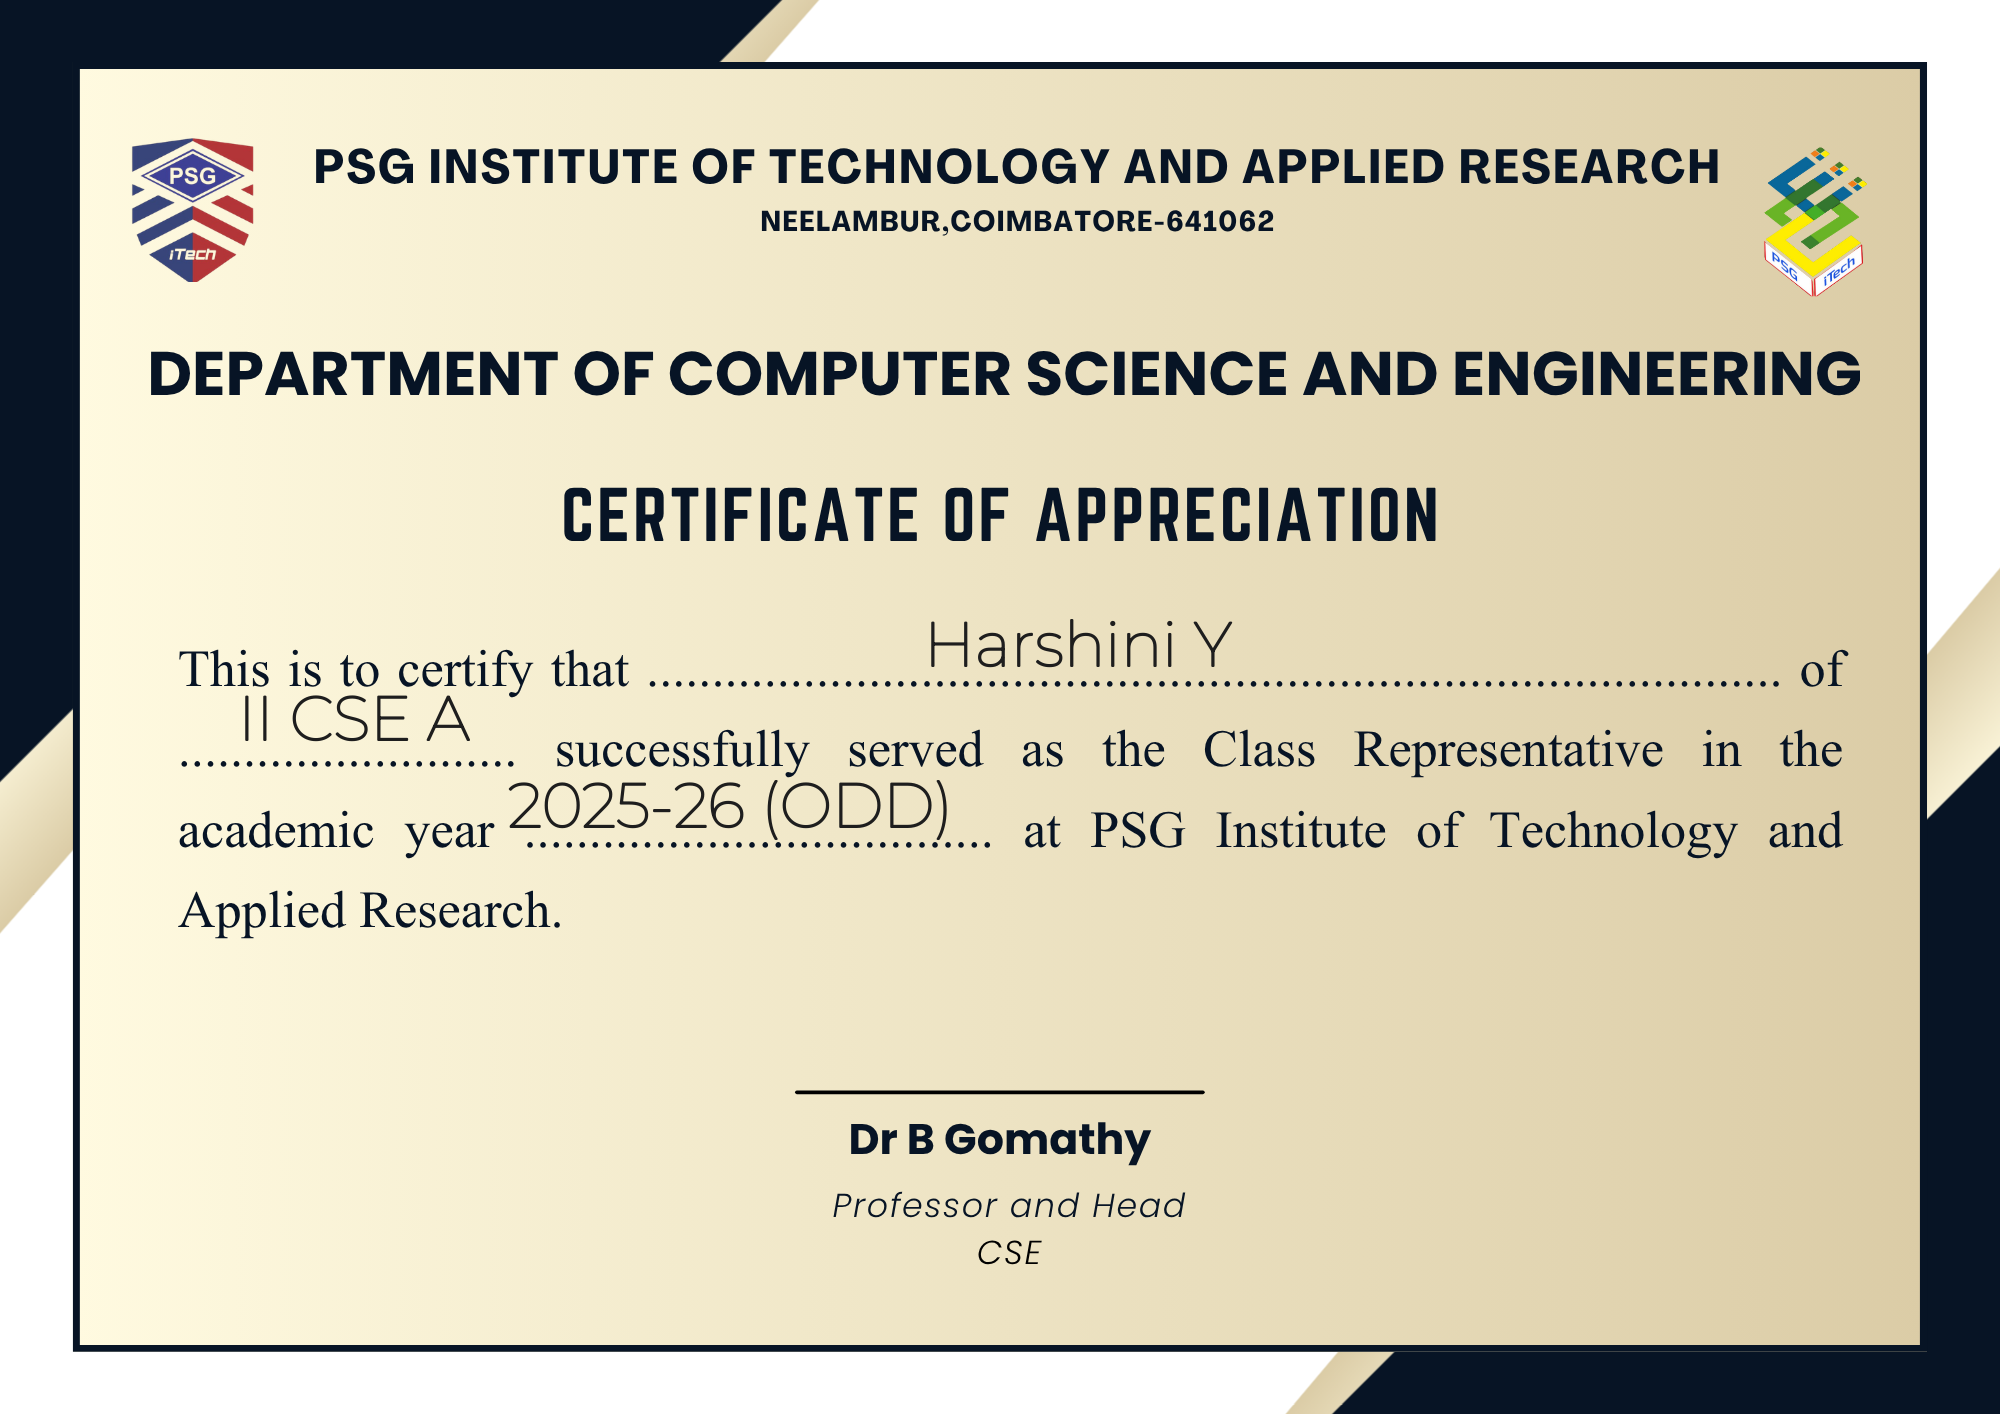
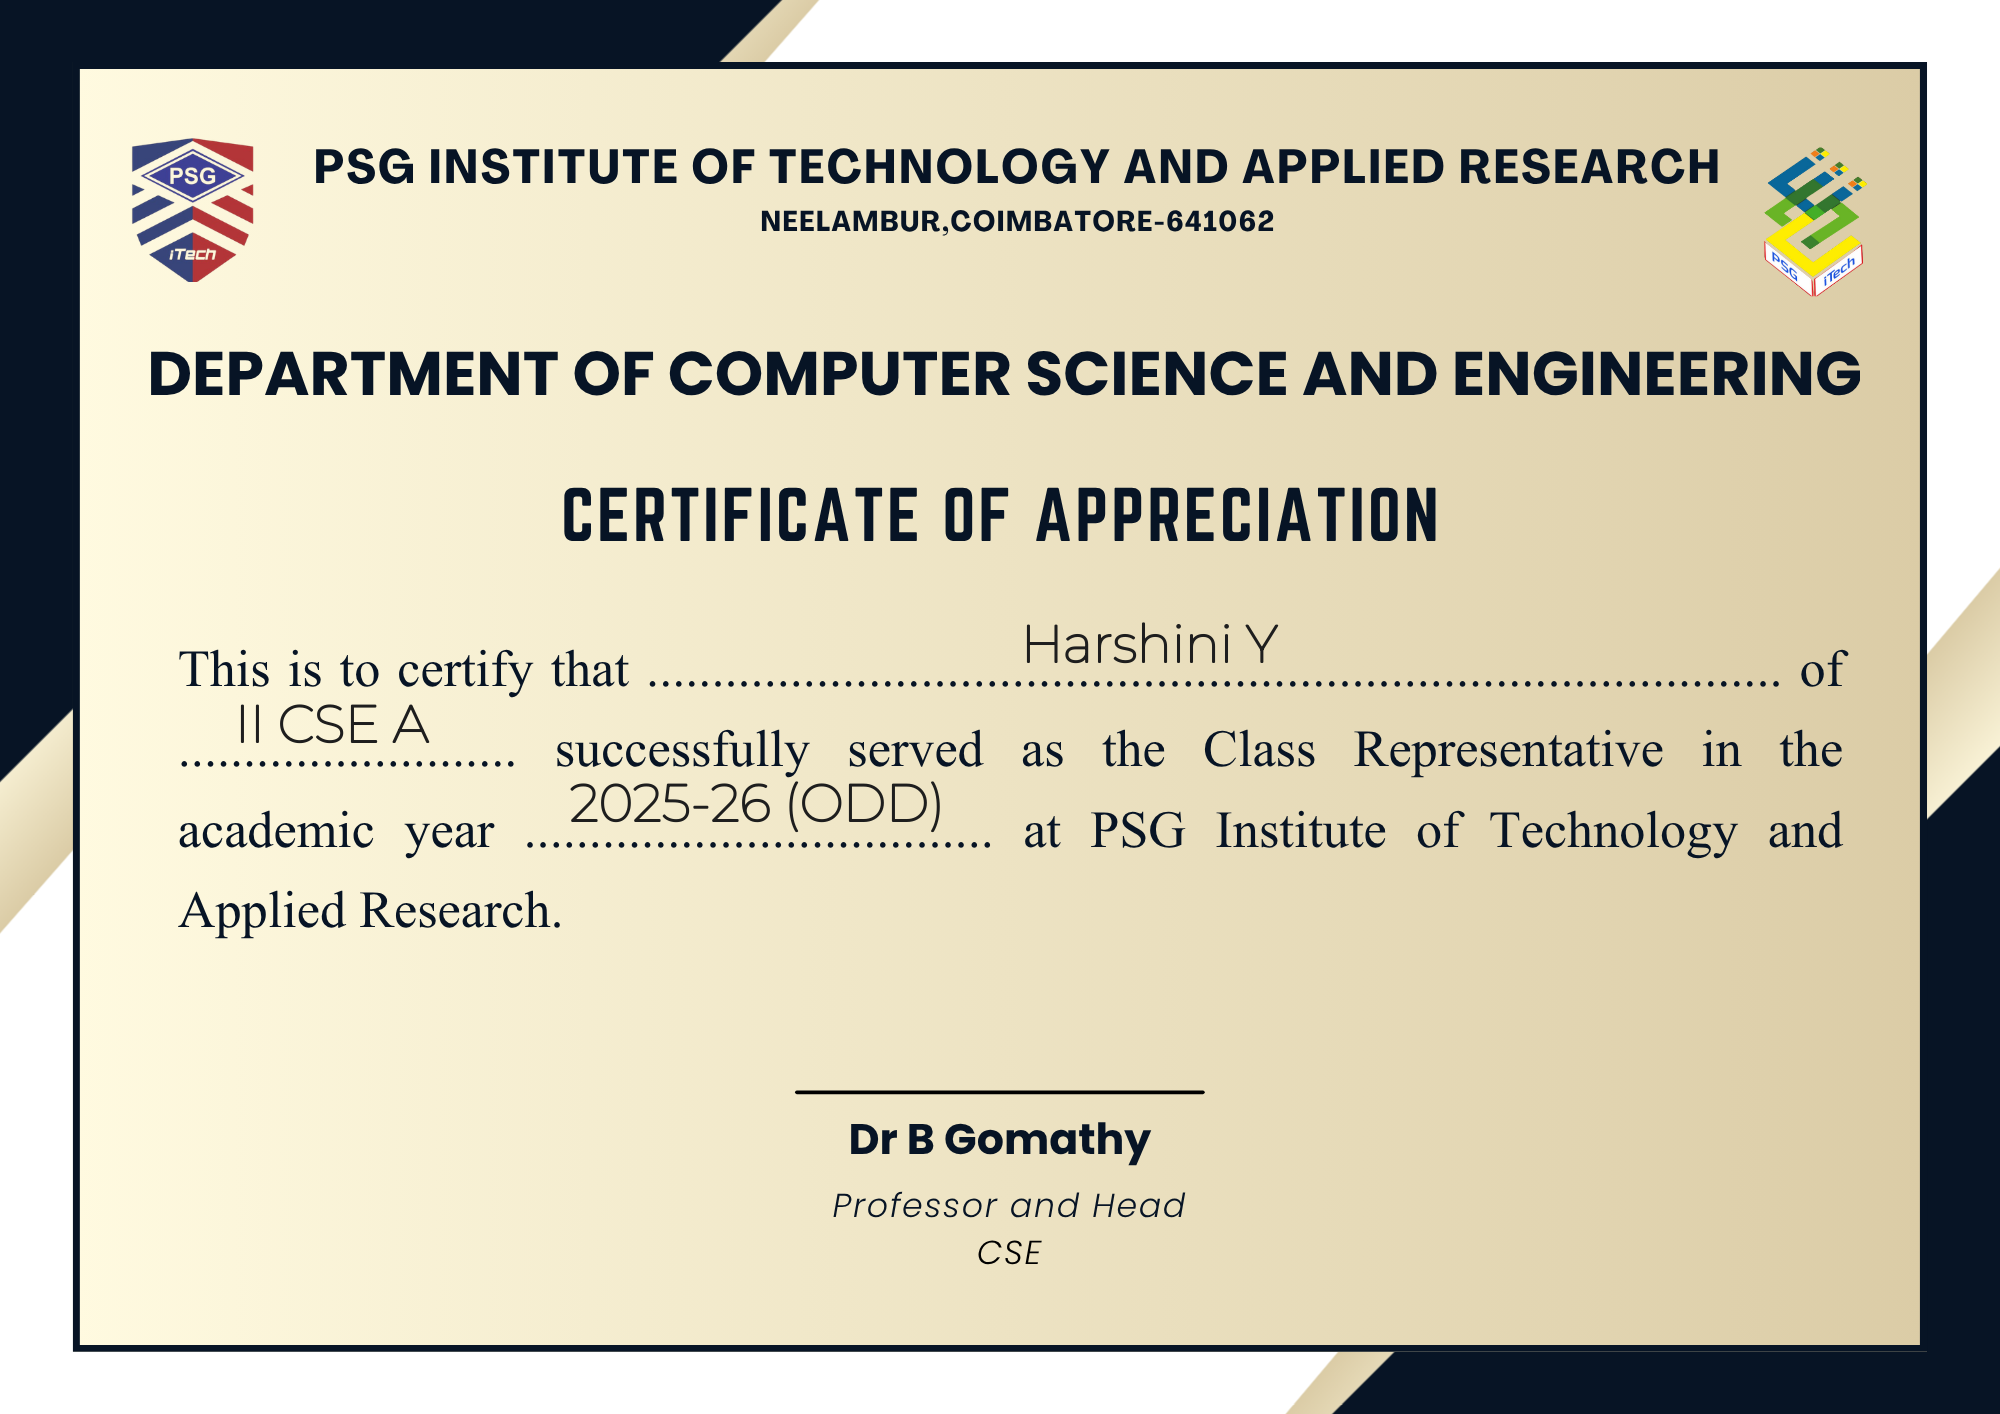
Guest Logic is Working

Changed region(s): [[0.248, 0.529, 0.496, 0.5912], [0.465, 0.4356, 0.62, 0.4668], [0.124, 0.4979, 0.248, 0.529]]

diff --git a/frontend/src/dashboards/dept/DeptCertificateIssue.jsx b/frontend/src/dashboards/dept/DeptCertificateIssue.jsx
@@ -93,7 +93,12 @@ export default function DeptCertificateIssue({ event }) {
   const allReady = hasParticipants && hasTemplate && hasMapping
 
   const firstGenerated = (certs || []).find((c) => !!c.png_url)
-  const previewImageUrl = previewData?.preview?.png_url ? `${BACKEND_URL}${previewData.preview.png_url}` : null
+  const previewImageUrl = useMemo(() => {
+    if (!previewData?.preview?.png_url) return null
+    const base = `${BACKEND_URL}${previewData.preview.png_url}`
+    const cacheKey = previewData?.preview?.id || previewData?.preview?.created_at || Date.now()
+    return `${base}${base.includes('?') ? '&' : '?'}t=${encodeURIComponent(String(cacheKey))}`
+  }, [previewData])
   const templateUrl = toImageUrl(eventTemplate?.template?.template_url)
   const templateAspectRatio = 2480 / 3508
 
@@ -237,7 +242,17 @@ export default function DeptCertificateIssue({ event }) {
 
         <div className="grid grid-cols-1 gap-4 lg:grid-cols-3">
           <div className="lg:col-span-2">
-            {firstGenerated?.png_url ? (
+            {previewImageUrl ? (
+              <div className="rounded-lg border border-gray-200 bg-white p-3">
+                <img
+                  key={previewData?.preview?.id || previewData?.preview?.created_at || 'dept-preview'}
+                  src={previewImageUrl}
+                  alt="Preview certificate"
+                  className="w-full rounded"
+                />
+                <p className="mt-2 text-xs text-gray-500">Showing backend-rendered preview using first Excel row and saved mapping.</p>
+              </div>
+            ) : firstGenerated?.png_url ? (
               <div className="rounded-lg border border-gray-200 bg-white p-3">
                 <img
                   src={`${BACKEND_URL}${firstGenerated.png_url}`}
@@ -245,15 +260,6 @@ export default function DeptCertificateIssue({ event }) {
                   className="w-full rounded"
                 />
                 <p className="mt-2 text-xs text-gray-500">Showing first generated certificate preview.</p>
-              </div>
-            ) : previewImageUrl ? (
-              <div className="rounded-lg border border-gray-200 bg-white p-3">
-                <img
-                  src={previewImageUrl}
-                  alt="Preview certificate"
-                  className="w-full rounded"
-                />
-                <p className="mt-2 text-xs text-gray-500">Showing backend-rendered preview using first Excel row and saved mapping.</p>
               </div>
             ) : templateUrl ? (
               <div className="rounded-lg border border-gray-200 bg-white p-3">

diff --git a/backend/app/domains/dept/routers.py b/backend/app/domains/dept/routers.py
@@ -221,7 +221,7 @@ def _pick_email_from_row(row: dict[str, str]) -> Optional[str]:
 
 
 def _load_font(size: int):
-    font_path = Path(__file__).parent.parent.parent / "static" / "fonts" / "PlayfairDisplay.ttf"
+    font_path = Path(__file__).parent.parent.parent / "static" / "fonts" / "Montserrat-Bold.ttf"
     try:
         if font_path.exists():
             return ImageFont.truetype(str(font_path), size)
@@ -271,10 +271,10 @@ def _render_dept_certificate(
     contrib_font = _load_font(max(1, int(ts)))
     cert_font = _load_font(max(1, int(zs)))
 
-    draw.text((w * nx, h * ny), name, fill=(28, 35, 70, 255), font=name_font, anchor="mm")
-    draw.text((w * cx, h * cy), f"Class: {class_name}", fill=(45, 45, 45, 255), font=class_font, anchor="mm")
-    draw.text((w * tx, h * ty), f"Contribution: {contribution}", fill=(45, 45, 45, 255), font=contrib_font, anchor="mm")
-    draw.text((w * zx, h * zy), cert_number, fill=(44, 61, 127, 255), font=cert_font, anchor="lm")
+    draw.text((w * nx, h * ny), name, fill=(28, 35, 70, 255), font=name_font, anchor="mm", stroke_width=1.5, stroke_fill=(28, 35, 70, 255))
+    draw.text((w * cx, h * cy), f"Class: {class_name}", fill=(45, 45, 45, 255), font=class_font, anchor="mm", stroke_width=1.5, stroke_fill=(45, 45, 45, 255))
+    draw.text((w * tx, h * ty), f"Contribution: {contribution}", fill=(45, 45, 45, 255), font=contrib_font, anchor="mm", stroke_width=1.5, stroke_fill=(45, 45, 45, 255))
+    draw.text((w * zx, h * zy), cert_number, fill=(44, 61, 127, 255), font=cert_font, anchor="lm", stroke_width=1.5, stroke_fill=(44, 61, 127, 255))
 
     def _paste_scaled(path: Optional[str], field_id: str, def_x: float, def_y: float, max_w_ratio: float, max_h_ratio: float):
         if not path:
@@ -342,7 +342,7 @@ def _render_dept_certificate_dynamic(
             value = _clean_text_value(row.get(field))
 
         if value:
-            draw.text((w * x / 100, h * y / 100), value, fill=(28, 35, 70, 255), font=font, anchor="mm")
+            draw.text((w * x / 100, h * y / 100), value, fill=(28, 35, 70, 255), font=font, anchor="mm", stroke_width=1.5, stroke_fill=(28, 35, 70, 255))
 
     cert_pos = field_positions.get("_cert_number")
     if cert_pos:
@@ -353,6 +353,8 @@ def _render_dept_certificate_dynamic(
             fill=(44, 61, 127, 255),
             font=cert_font,
             anchor="lm",
+            stroke_width=1.5,
+            stroke_fill=(44, 61, 127, 255),
         )
 
     def _paste_scaled(path: Optional[str], field_id: str, def_x: float, def_y: float, max_w_ratio: float, max_h_ratio: float):
@@ -840,7 +842,7 @@ async def generate_dept_event_certificate_preview(
     preview_row = evt.excel_preview_row or evt.excel_rows[0]
     dept_slug = _slugify(department)
     year = datetime.utcnow().year
-    cert_number = f"PREVIEW-DPT-{dept_slug[:4].upper()}-{datetime.utcnow().strftime('%Y%m%d%H%M%S')}"
+    cert_number = f"PREVIEW-DPT-{dept_slug[:4].upper()}-{datetime.utcnow().strftime('%Y%m%d%H%M%S%f')}-{uuid4().hex[:6].upper()}"
 
     png_bytes = _render_dept_certificate_dynamic(
         template_path=Path(template_doc.template_path),

diff --git a/backend/app/domains/guest/routers.py b/backend/app/domains/guest/routers.py
@@ -532,7 +532,7 @@ def _render_guest_certificate(
             font=font,
             fill=(30, 30, 30, 255),
             anchor="mm",
-            stroke_width=1,
+            stroke_width=1.5,
             stroke_fill=(30, 30, 30, 255),
         )
 
@@ -587,6 +587,14 @@ async def send_guest_emails(
     rows = session.guest_excel_data or []
     certs = session.guest_generated_certs or []
     email_col = session.guest_email_column
+
+    if rows:
+        header_keys = set(rows[0].keys())
+        if email_col not in header_keys:
+            raise HTTPException(
+                status.HTTP_400_BAD_REQUEST,
+                f"Configured email column '{email_col}' was not found in uploaded Excel headers.",
+            )
 
     sent = 0
     failed = 0
